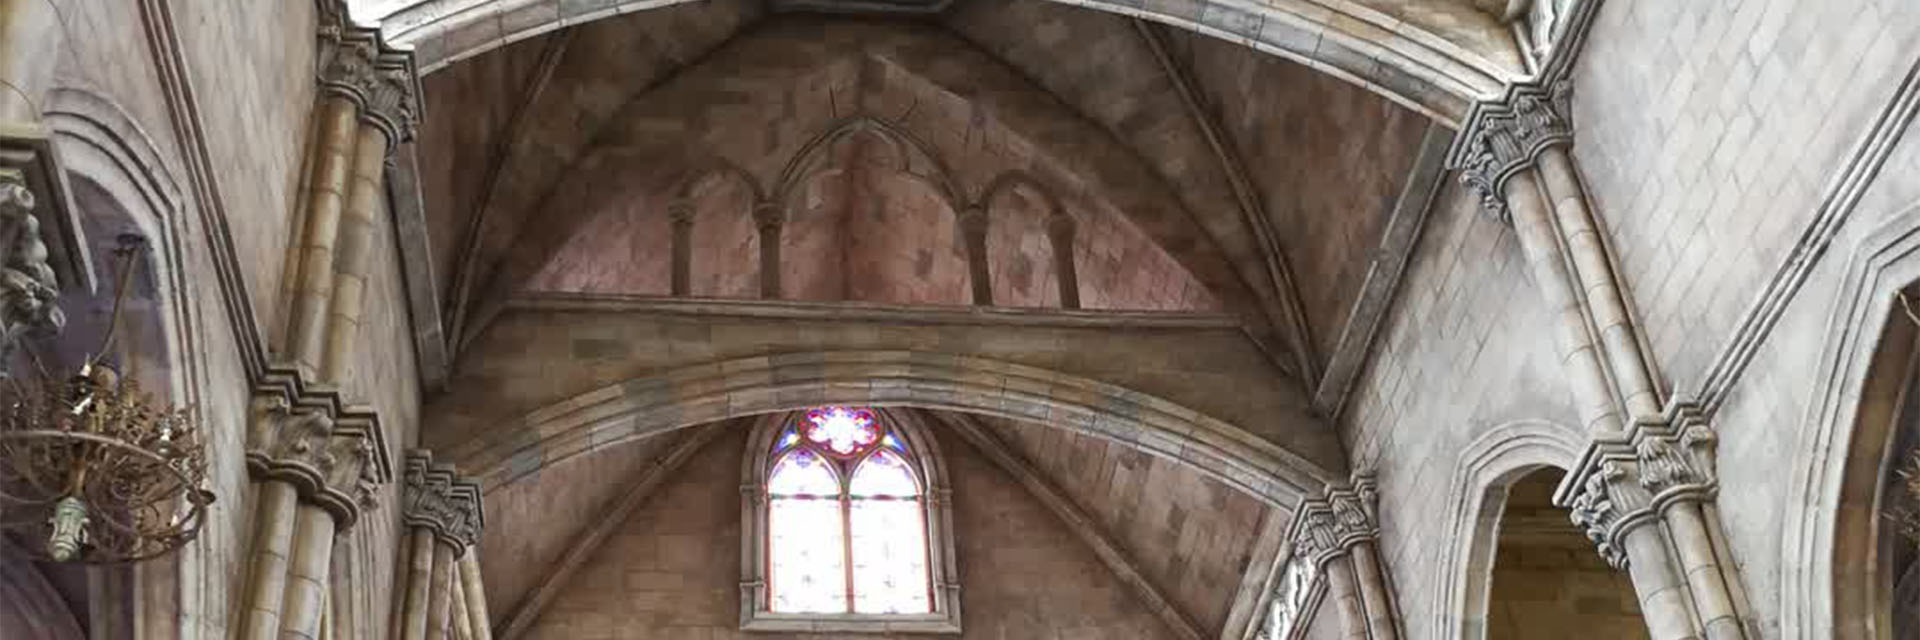
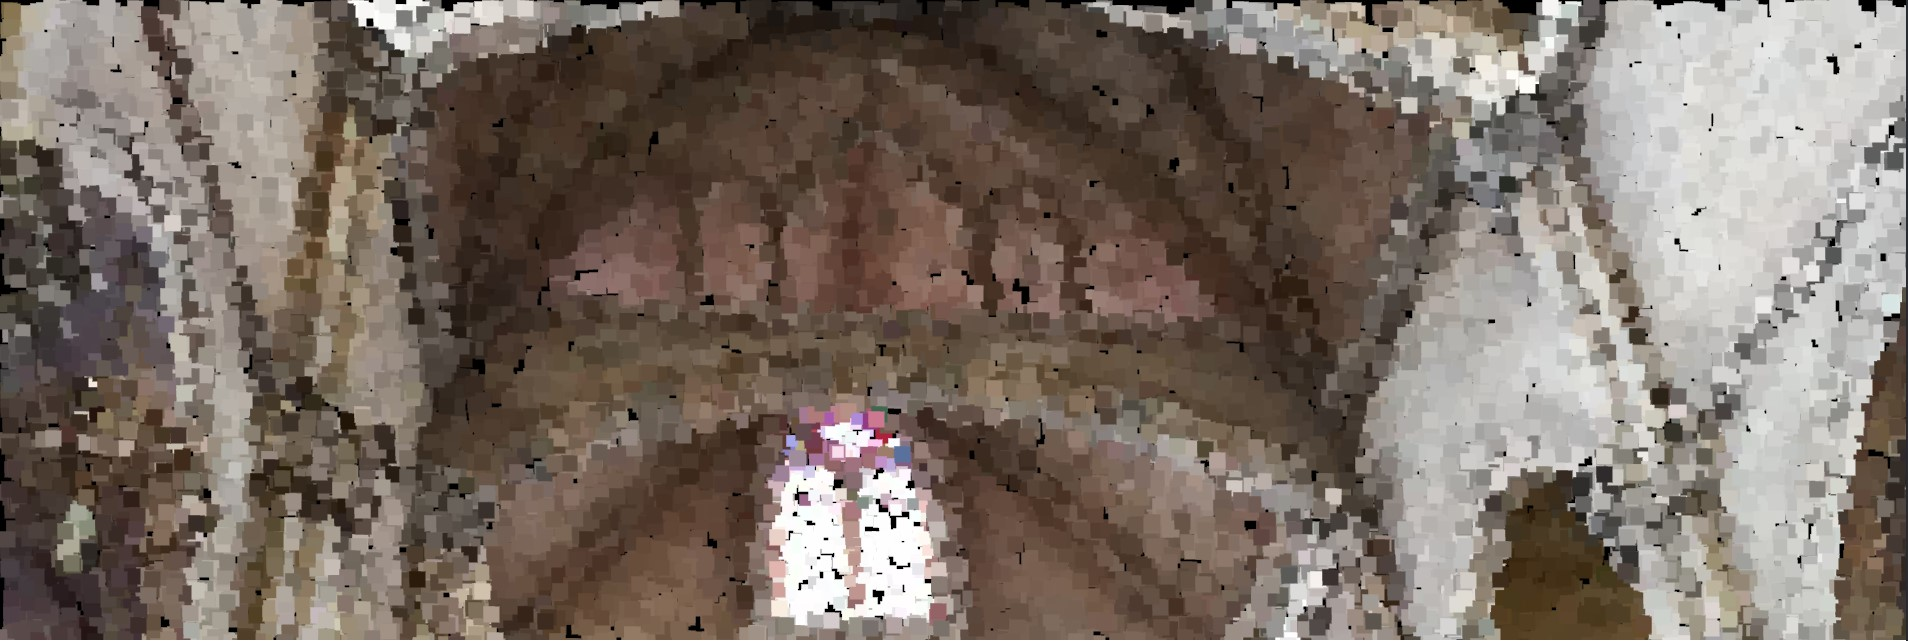
09/06
Fix the render page. Try the first picture.

diff --git a/sketch.js b/sketch.js
@@ -3,9 +3,9 @@ let maskImg=null;
 let renderCounter=0;
 
 // change these three lines as appropiate
-let sourceFile = "input_3.jpg";
-let maskFile   = "mask_2.png";
-let outputFile = "output_2.png";
+let sourceFile = "input_1.jpg";
+let maskFile   = "mask_1.png";
+let outputFile = "output_1.png";
 
 function preload() {
   sourceImg = loadImage(sourceFile);
@@ -33,15 +33,15 @@ function draw () {
       fill(pix);
       stroke(pix);
       console.log(mask);
-      let pointSize = 40;
-      line(x,y,x, y+pointSize);
+      let pointSize = 10;
+        rect(x, y, pointSize, pointSize);
 
-      if(mask[0] > 128) {
-         noStroke();
-         ellipse(x, y, pointSize, pointSize);
+      if(mask[0] > 80) {
+        let pointSize = 10;
+        rect(x, y, pointSize, pointSize);
        }
       else {
-         let pointSize = 10;
+         let pointSize = 15;
          rect(x, y, pointSize, pointSize);
       }
 

diff --git a/README.md b/README.md
@@ -6,4 +6,11 @@ Try to edit the sketch.js, but meet some problems. Index.html doesn't change whe
 08/06/2020
 Try to fix the render page. Done the mask pictures.
 
+09/06/2020
+Fix the render page. Try the first picture.
+
+
+
+
+
 The images above are photos of Wellington CBD algorithmically processed with a lightly modified version of the [p5.js Pointillism example](https://p5js.org/examples/image-pointillism.html). The masks for each photo highlight various objects. Replace this text with your own which explains the source of your photos, masking, and applied algorithm.
